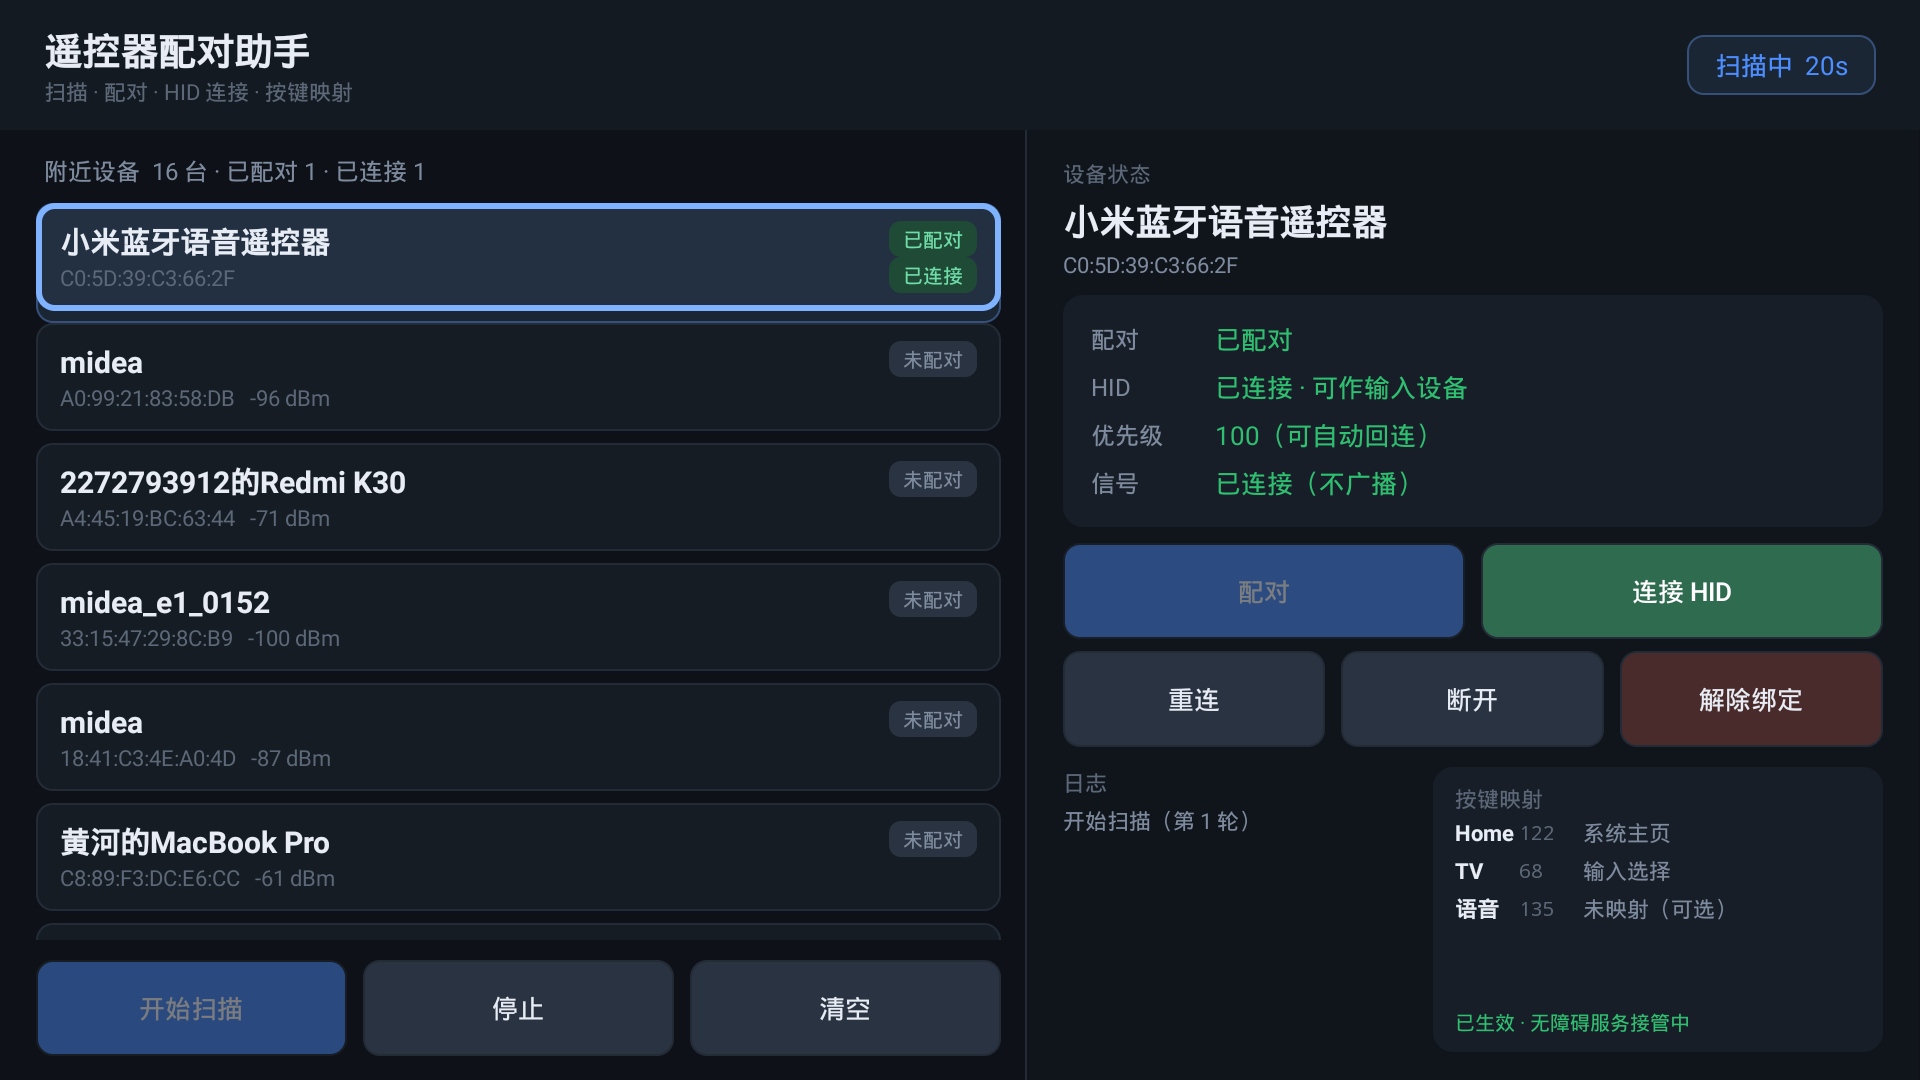
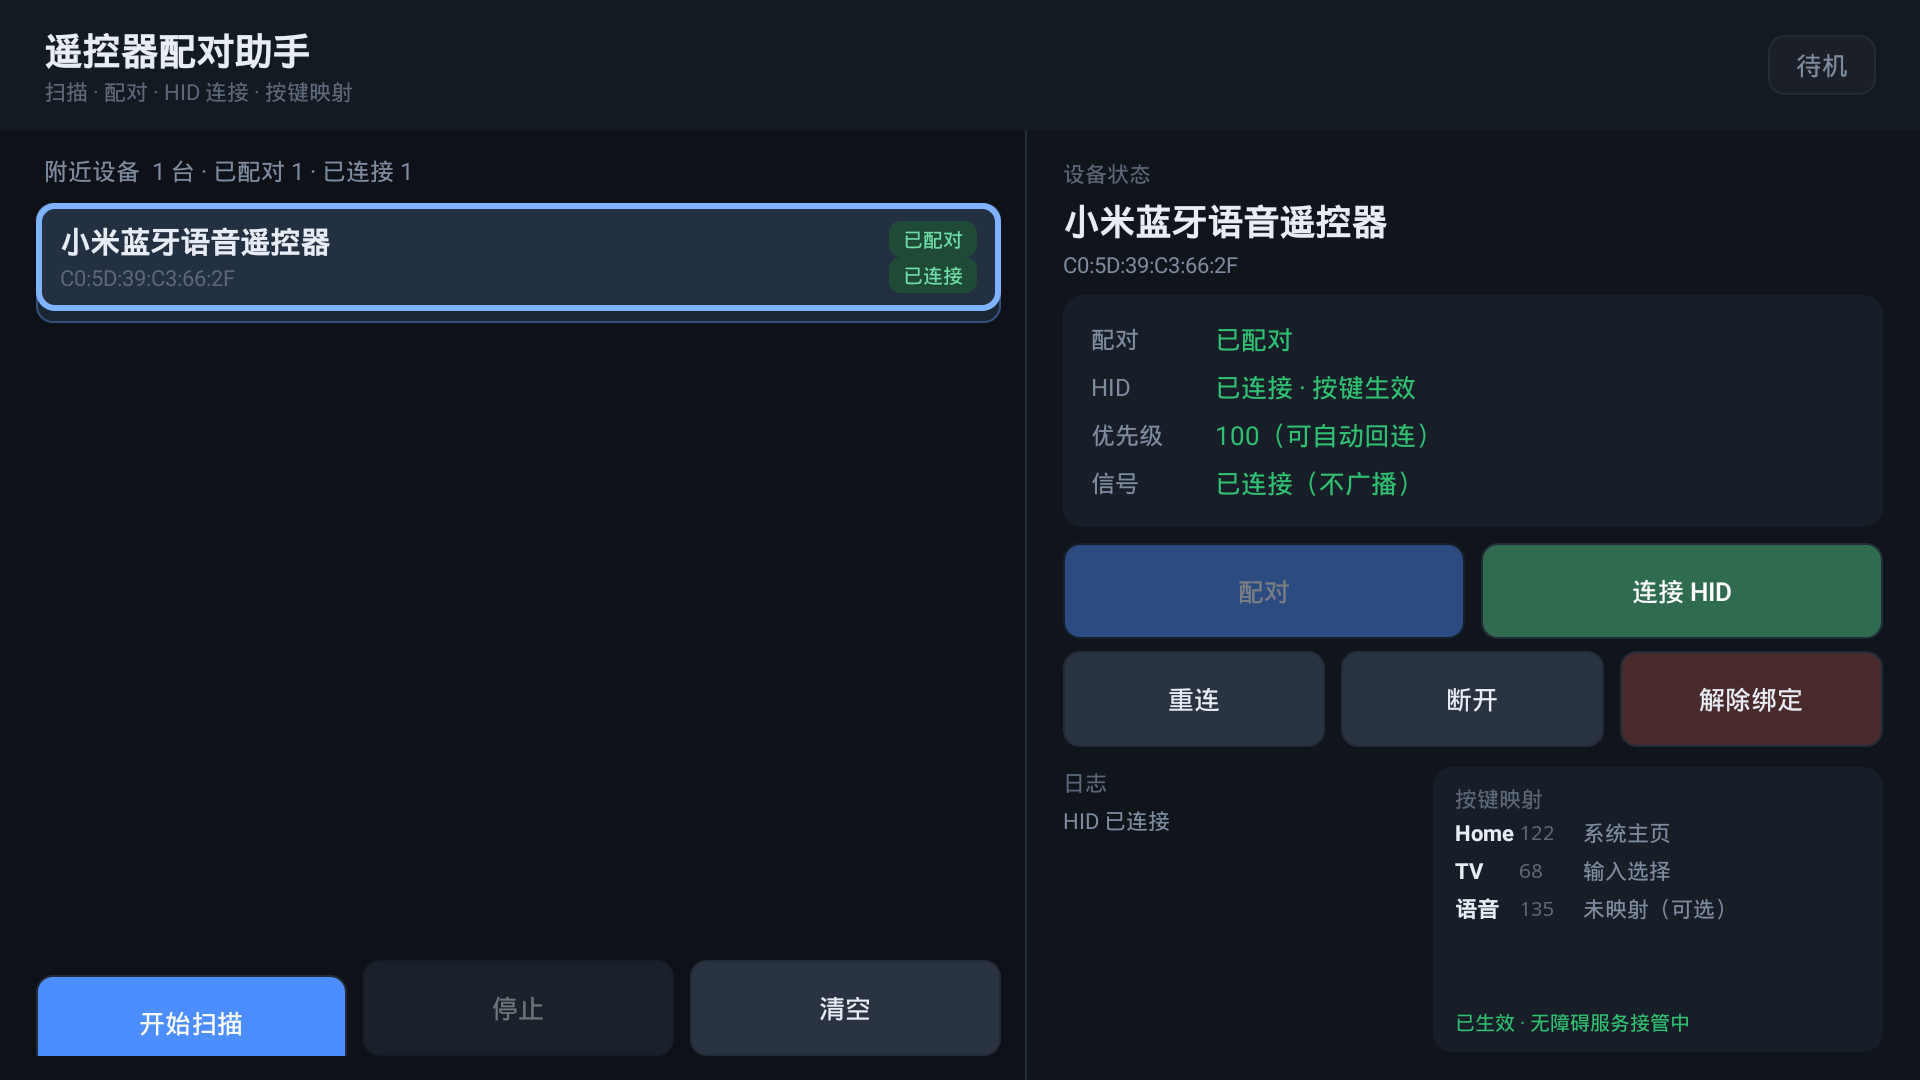
修焦点还原覆盖选中：程序 requestFocus 不再触发 select
外部 --es mac 指定设备、或扫描中列表重建还原焦点时，首行获得焦点会把
selected 顶掉，右侧状态跳到无关设备。加 restoringFocus 标志区分程序焦点与
用户主动聚焦，并更新界面截图。

diff --git a/assets/btpair/src/com/atvremote/pair/MainActivity.java b/assets/btpair/src/com/atvremote/pair/MainActivity.java
@@ -150,6 +150,8 @@ public class MainActivity extends Activity {
     private String wantMac;
     private int seq;
     private long unbondArmedAt;
+    /** 程序还原焦点时置位，避免把外部指定/markDirty 之前的选中项覆盖成首行设备。 */
+    private boolean restoringFocus;
 
     private final Handler ui = new Handler(Looper.getMainLooper());
 
@@ -885,7 +887,17 @@ public class MainActivity extends Activity {
         if (target != null) {
             target.post(new Runnable() {
                 public void run() {
+                    restoringFocus = true;
                     boolean ok = target.requestFocus();
+                    if (!ok) {
+                        restoringFocus = false;
+                    }
+                    // 兜底：requestFocus 没触发焦点变化时，避免标志卡住导致下一次真实聚焦被吞
+                    target.postDelayed(new Runnable() {
+                        public void run() {
+                            restoringFocus = false;
+                        }
+                    }, 0);
                     Log.i(TAG, "restore focus=" + ok + " cur=" + getCurrentFocus());
                 }
             });
@@ -936,6 +948,11 @@ public class MainActivity extends Activity {
         row.setOnFocusChangeListener(new View.OnFocusChangeListener() {
             public void onFocusChange(View v, boolean hasFocus) {
                 if (hasFocus) {
+                    // 焦点由程序还原时不算用户主动选择，否则外部 --es mac 指定的设备会被首行顶掉
+                    if (restoringFocus) {
+                        restoringFocus = false;
+                        return;
+                    }
                     select(e.mac);
                 }
             }
